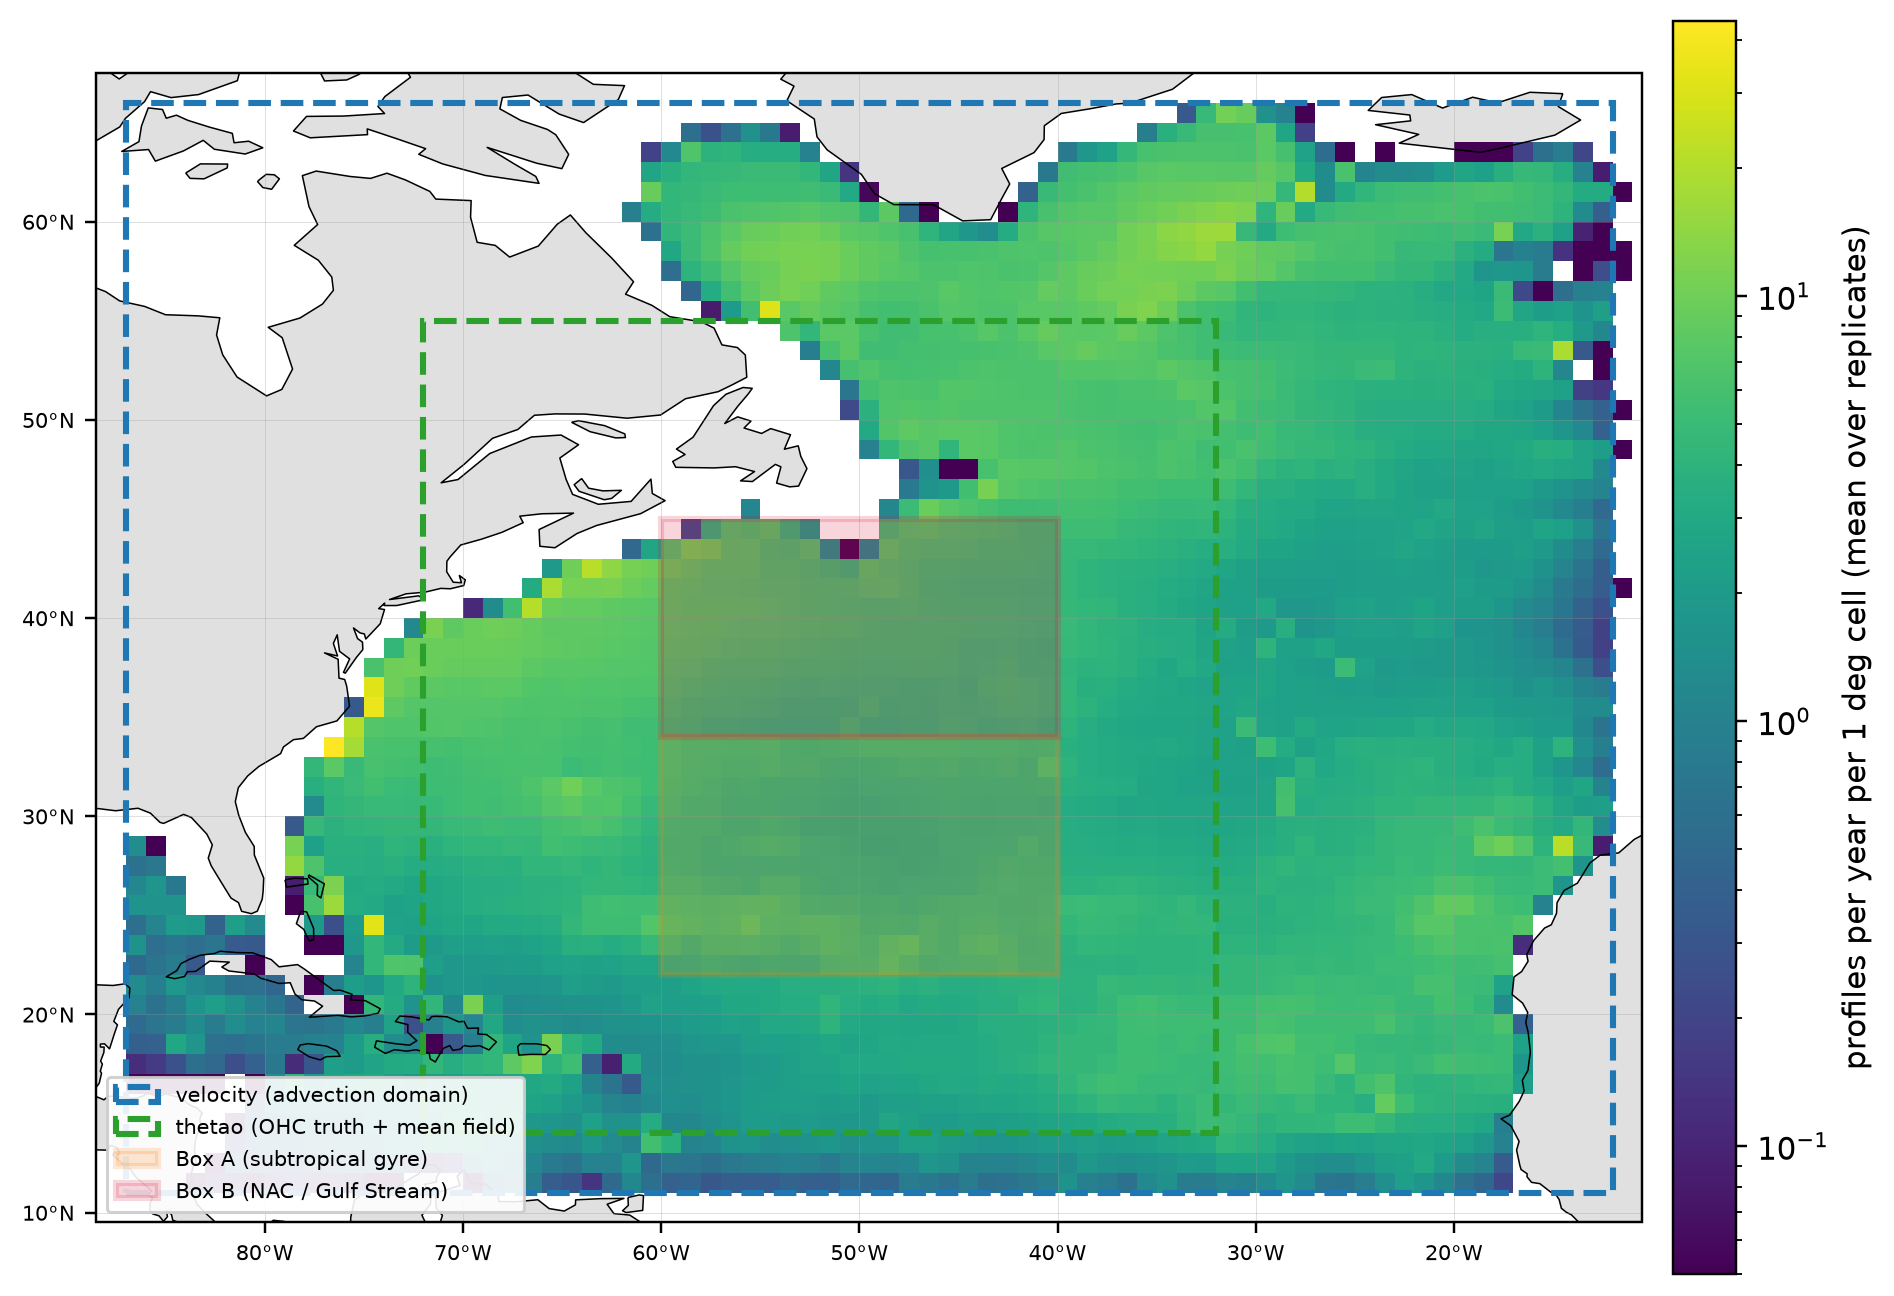
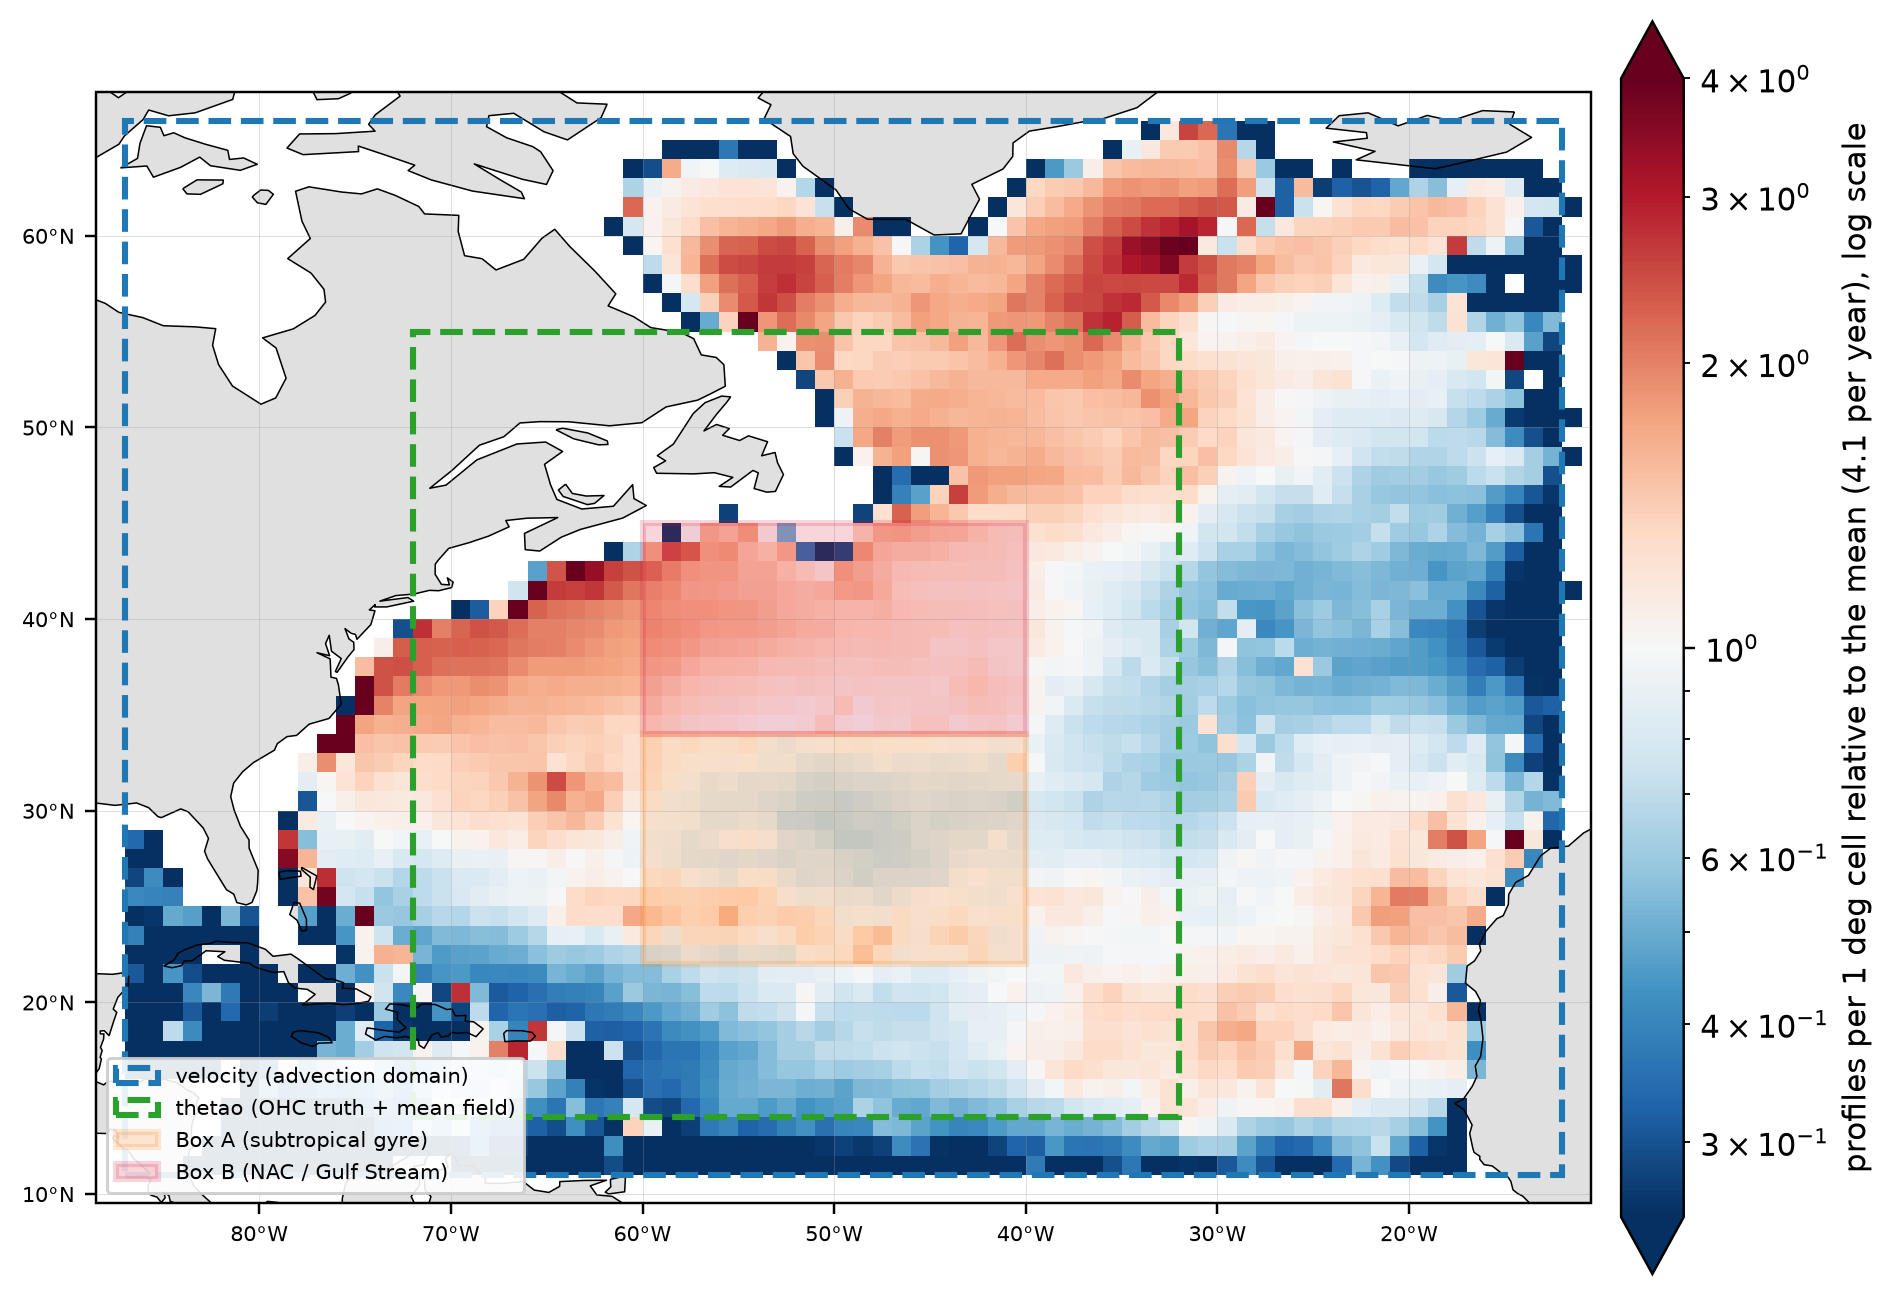
glorys_chain: one bootstrap deployment draw over the real launches, diverging profile-density map

diff --git a/code/osim/chain.py b/code/osim/chain.py
@@ -731,6 +731,29 @@ def plot_deployments(figsize=(8.5, 7.2)):
     return fig
 
 
+def plot_deployment_draw(rep, figsize=(8.5, 7.2)):
+    """One replicate's bootstrap draw: the real launch positions (grey, transparent) and the replicate's jittered
+    seeds (solid, coloured by launch-year cohort)."""
+    import matplotlib.pyplot as plt
+    import matplotlib as mpl
+    from osim import report as rp
+    p = cs.read_resample_pool(POOL)
+    tab = cs.resample_seeds(p, rep, "2010-01-01", cs._velocity_end())[1]
+    tab = tab[tab.source == "deploy"].merge(p[["pool_idx", "year"]], on="pool_idx")
+    real, yr = pool(), list(range(YEARS[0] - 5, YEARS[-1] + 1))
+    cmap = plt.get_cmap("turbo", len(yr))
+    norm = mpl.colors.BoundaryNorm(np.arange(yr[0], yr[-1] + 2) - 0.5, cmap.N)
+    fig, ax, pc, _ = rp._domain_base(BOXES, figsize)
+    ax.scatter(real.lon, real.lat, s=30, color="0.45", alpha=0.3, lw=0, transform=pc, zorder=3,
+               label=f"real launches ({len(real)})")
+    ax.scatter(tab.seed_lon, tab.seed_lat, c=tab.year, cmap=cmap, norm=norm, s=9, edgecolor="k", linewidth=0.2,
+               transform=pc, zorder=4, label=f"replicate {rep} ({tab.pool_idx.nunique()} distinct launches)")
+    fig.colorbar(mpl.cm.ScalarMappable(norm=norm, cmap=cmap), ax=ax, ticks=yr, shrink=0.8, pad=0.02,
+                 label="launch year")
+    ax.legend(loc="lower left", fontsize=7, framealpha=0.9)
+    return fig
+
+
 def profile_density(deg=1.0):
     """Deployed-float profiles of 2015-2019 per replicate, year and deg x deg cell over the velocity domain, all
     replicates, cached."""
@@ -748,16 +771,19 @@ def profile_density(deg=1.0):
     return d
 
 
-def plot_profile_density(d, deg=1.0, figsize=(8.5, 7.2)):
-    """Mean profiles per replicate and year in each cell, 2015-2019, log colour scale, on the domain base map."""
+def plot_profile_density(d, deg=1.0, span=4.0, figsize=(8.5, 7.2)):
+    """Mean profiles per replicate and year in each cell, 2015-2019, relative to the mean over sampled cells, on a
+    diverging log scale centred at 1, on the domain base map."""
     from matplotlib.colors import LogNorm
     from osim import report as rp
     fig, ax, pc, _ = rp._domain_base(BOXES, figsize)
     la, lo = (np.arange(d[c].min(), d[c].max() + deg / 2, deg) for c in ("lat", "lon"))
     g = d.pivot(index="lat", columns="lon", values="n").reindex(index=la, columns=lo, method="nearest", tolerance=deg / 4)
-    m = ax.pcolormesh(lo, la, g.to_numpy(), cmap="viridis", transform=pc, norm=LogNorm(0.05, np.nanmax(g.to_numpy())),
-                      zorder=1, shading="nearest")
-    fig.colorbar(m, ax=ax, shrink=0.8, pad=0.02, label=f"profiles per year per {deg:g} deg cell (mean over replicates)")
+    r = g.to_numpy() / d.n.mean()
+    m = ax.pcolormesh(lo, la, r, cmap="RdBu_r", transform=pc, norm=LogNorm(1 / span, span), zorder=1,
+                      shading="nearest")
+    fig.colorbar(m, ax=ax, shrink=0.8, pad=0.02, extend="both",
+                 label=f"profiles per {deg:g} deg cell relative to the mean ({d.n.mean():.1f} per year), log scale")
     ax.legend(loc="lower left", fontsize=7, framealpha=0.9)
     return fig
 
